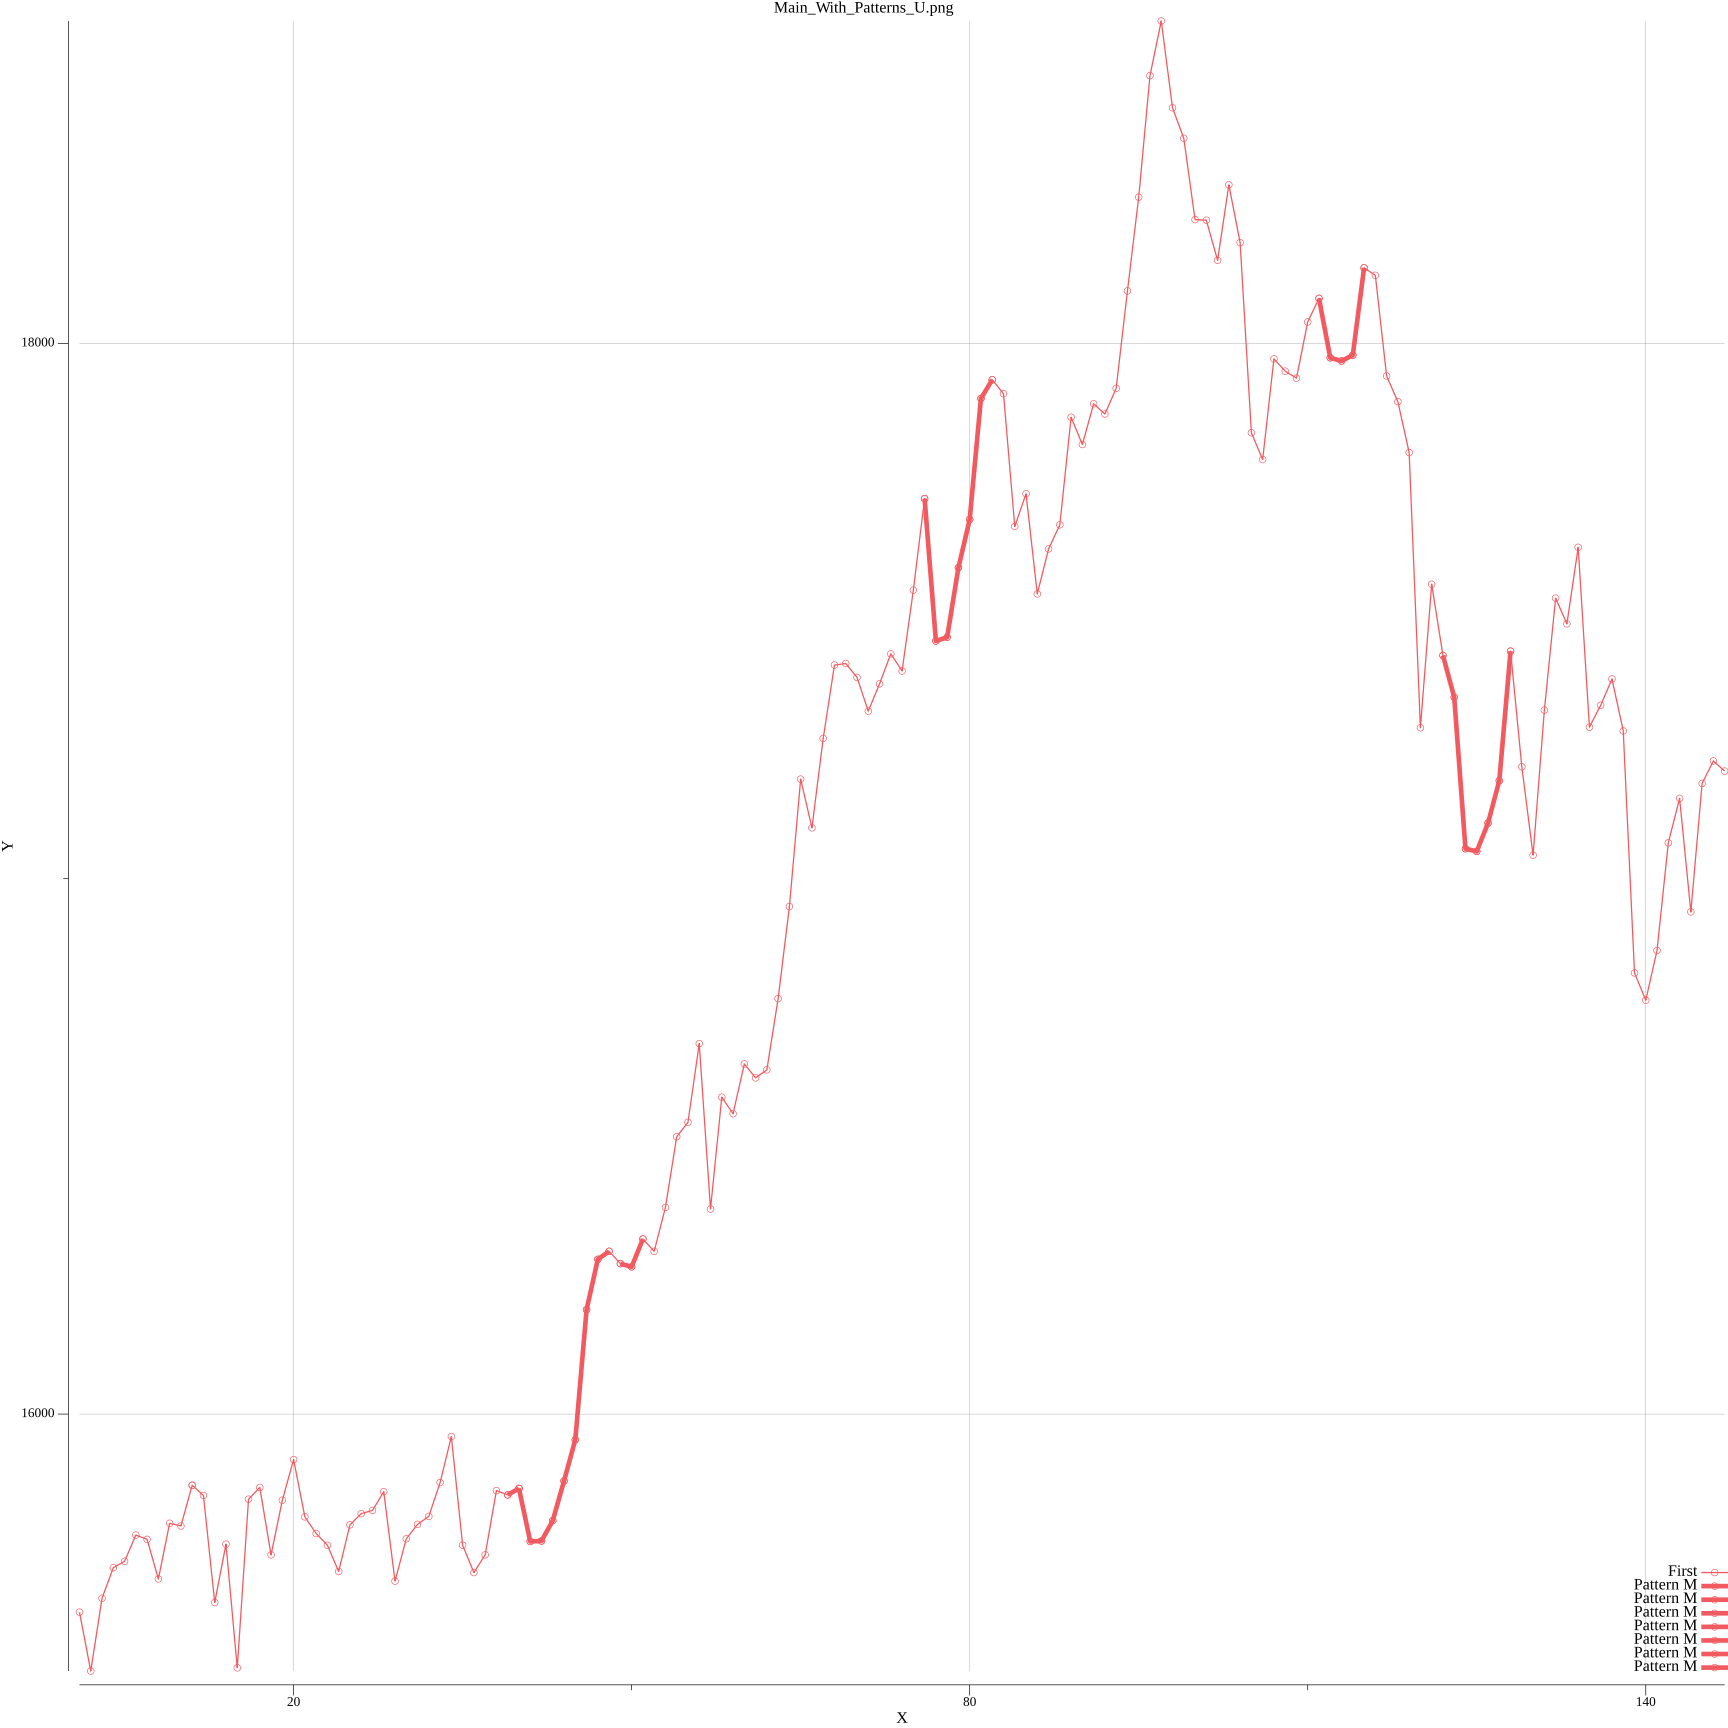
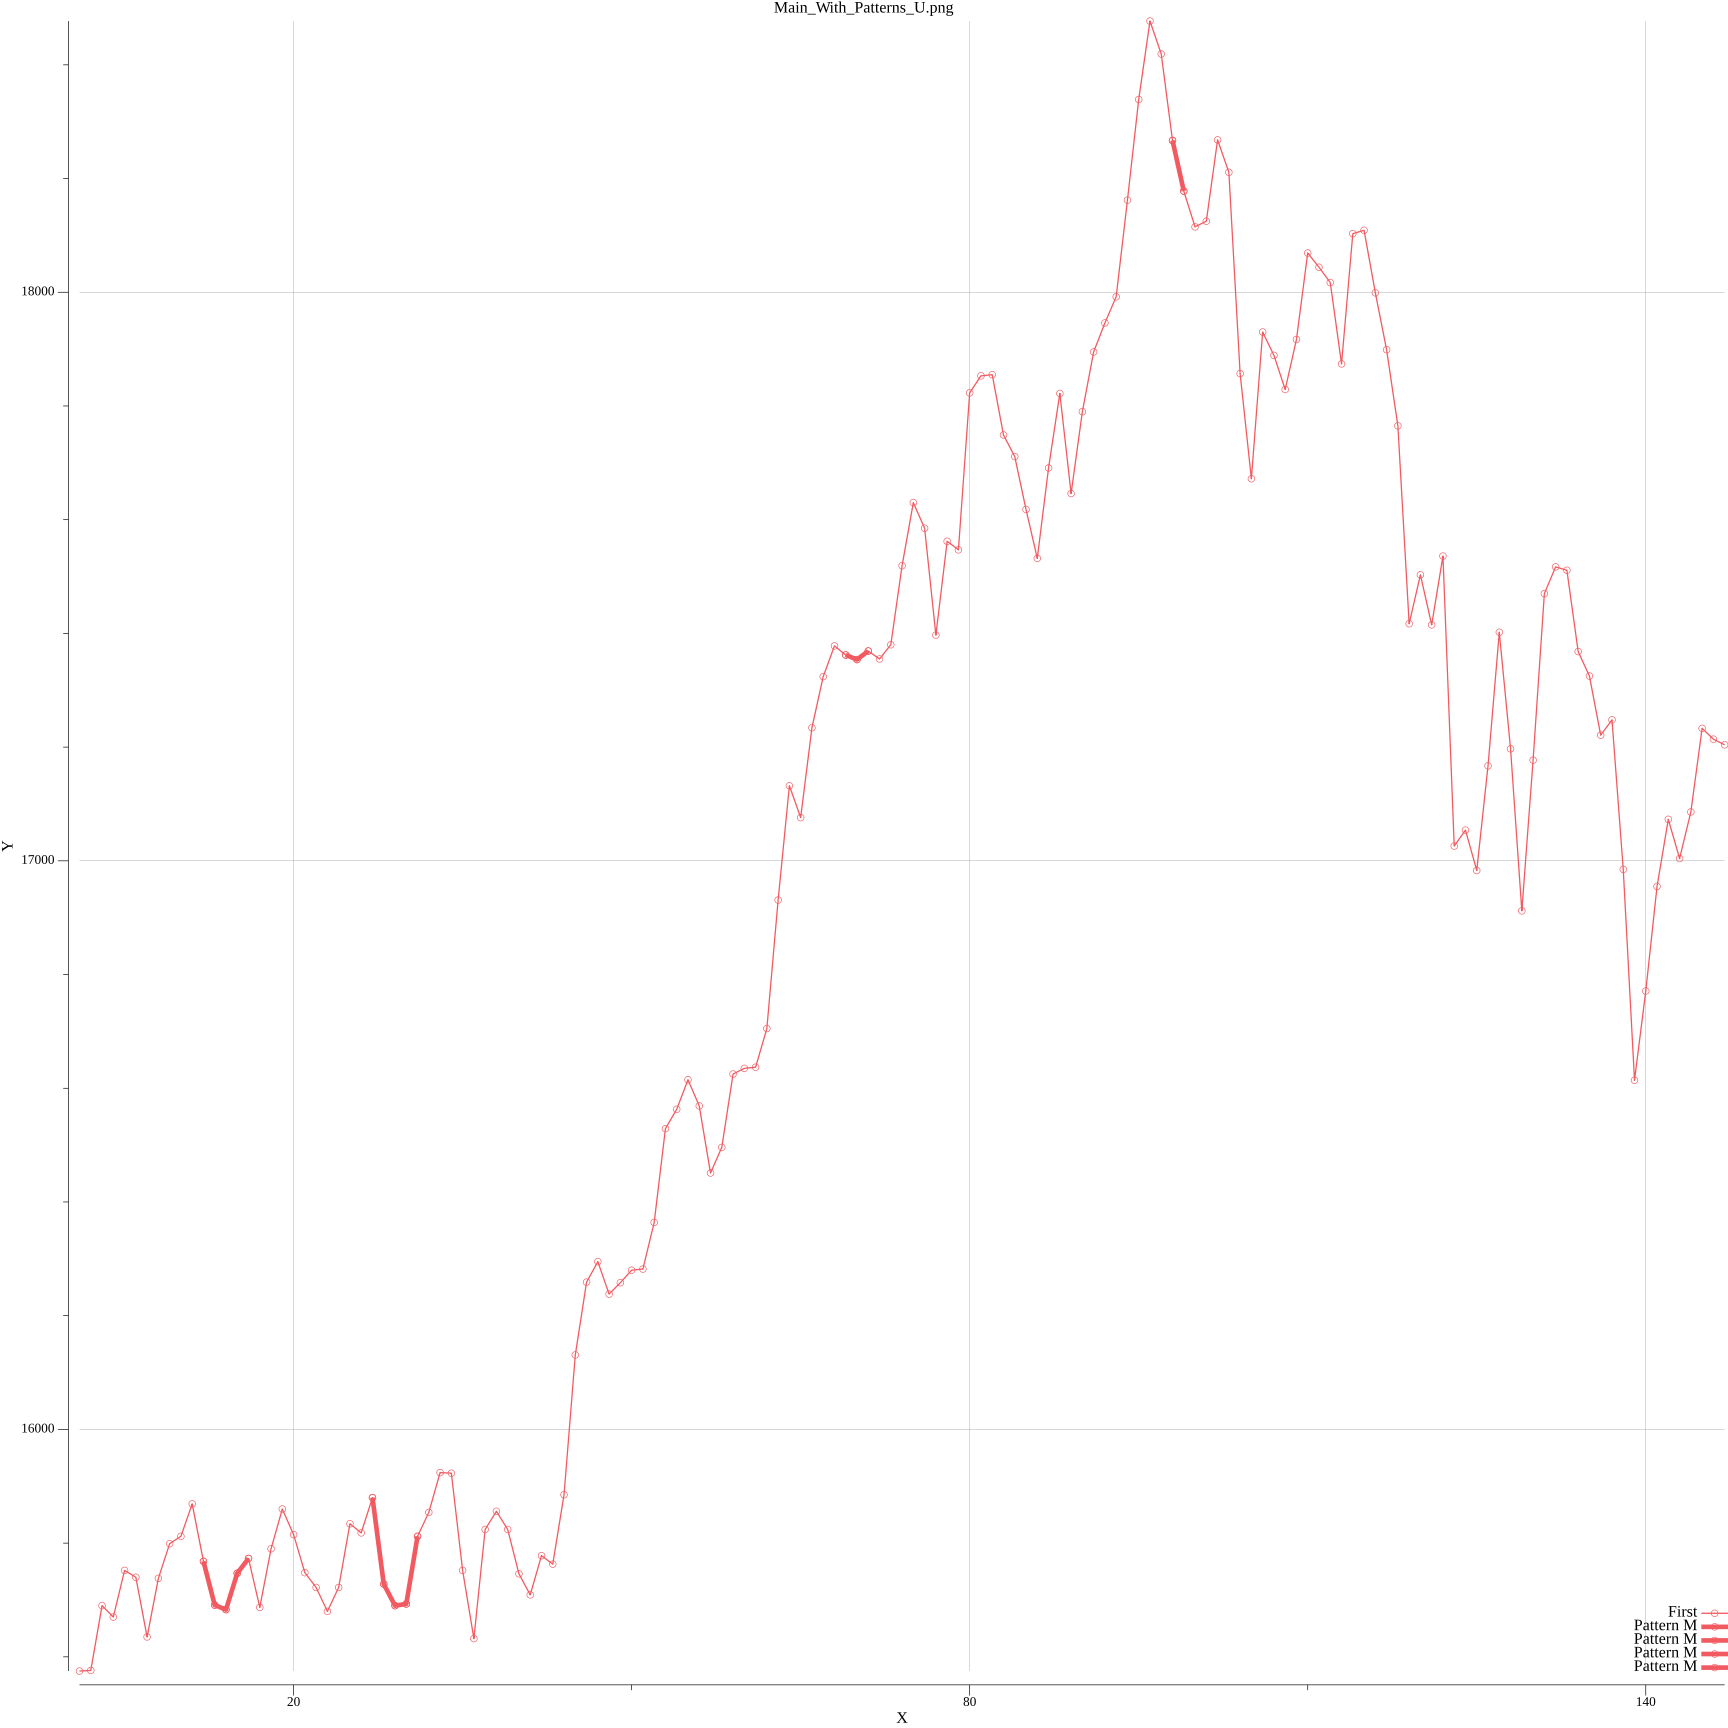
u emered in wo perfect!!

diff --git a/Inverted_semi_circle/main.go b/Inverted_semi_circle/main.go
@@ -51,7 +51,7 @@ func (l *Letter_inverted_semicircle) PatternU() ([]int, []int, int, bool) {
 	for i := range All_trends_string {
 		if All_trends_string[i] == "Downward" && i != len(All_trends_string)-1 {
 			if All_trends_string[i+1] == "Upward" && i+1 != len(All_trends_string)-1 { //Task:=>check here for first and last point to be in the align manner.
-				var a1 []int
+				var a1 []int //end point
 				var x int
 
 				for i1 := 0; i1 < 30; i1++ {
@@ -62,7 +62,7 @@ func (l *Letter_inverted_semicircle) PatternU() ([]int, []int, int, bool) {
 					x = l.Date_struct[All_trends_index_values[i+2]].Value - i2
 					a1 = append(a1, x)
 				}
-				var a2 []int
+				var a2 []int //start point
 				var x1 int
 
 				for i1 := 0; i1 < 30; i1++ {
@@ -73,31 +73,30 @@ func (l *Letter_inverted_semicircle) PatternU() ([]int, []int, int, bool) {
 					x1 = l.Date_struct[All_trends_index_values[i]+1].Value - i2
 					a2 = append(a2, x1)
 				}
-
-				if Is_Valid11(l.Date_struct[All_trends_index_values[i]].Value, a1) {
+				// if Is_Valid11(l.Date_struct[All_trends_index_values[i]].Value, a1) {
+				// 	start = append(start, All_trends_index_values[i])
+				// 	end = append(end, All_trends_index_values[i])
+				// 	count++
+				// 	bol = true //do tuing here
+				// } else
+				if Is_Valid11(l.Date_struct[All_trends_index_values[i]+1].Value, a1) {
 					start = append(start, All_trends_index_values[i]+1)
-					end = append(end, All_trends_index_values[i+2]+1)
-					count++
-					bol = true
-
-				} else if Is_Valid11(l.Date_struct[All_trends_index_values[i]+1].Value, a1) {
-					start = append(start, All_trends_index_values[i]+1)
-					end = append(end, All_trends_index_values[i+2]+1)
+					end = append(end, All_trends_index_values[i+2]+1) //last U
 					count++
 					bol = true
 				} else if Is_Valid11(l.Date_struct[All_trends_index_values[i]+2].Value, a1) {
 					start = append(start, All_trends_index_values[i]+2)
-					end = append(end, All_trends_index_values[i+2]+1)
+					end = append(end, All_trends_index_values[i+1])
+					count++
+					bol = true
+				} else if Is_Valid11(l.Date_struct[All_trends_index_values[i]].Value, a2) {
+					start = append(start, All_trends_index_values[i])
+					end = append(end, All_trends_index_values[i]+1)
 					count++
 					bol = true
 				} else if Is_Valid11(l.Date_struct[All_trends_index_values[i]+1].Value, a2) {
 					start = append(start, All_trends_index_values[i])
-					end = append(end, All_trends_index_values[i+2]+1)
-					count++
-					bol = true
-				} else if Is_Valid11(l.Date_struct[All_trends_index_values[i]+2].Value, a2) {
-					start = append(start, All_trends_index_values[i]+1)
-					end = append(end, All_trends_index_values[i+2]+1)
+					end = append(end, All_trends_index_values[i]+5) //some connection
 					count++
 					bol = true
 				}
@@ -271,11 +270,11 @@ func troughs(pts []pattern_up.Date) (a []int) {
 				x = pts[i].Value - i2
 				a1 = append(a1, x)
 			}
-			if Is_Valid1(pts[i-1].Value, a1) { //pts[i-1].Value == pts[i].Value || pts[i+1].Value == pts[i].Value
+			if Is_Valid1(pts[i-1].Value, a1) && pts[i-1].Value < pts[i-2].Value { //pts[i-1].Value == pts[i].Value || pts[i+1].Value == pts[i].Value
 				b = append(b, i)
 				continue
 			}
-			if Is_Valid1(pts[i+1].Value, a1) { //pts[i-1].Value == pts[i].Value || pts[i+1].Value == pts[i].Value
+			if Is_Valid1(pts[i+1].Value, a1) && pts[i+1].Value < pts[i+2].Value { //pts[i-1].Value == pts[i].Value || pts[i+1].Value == pts[i].Value
 				b = append(b, i)
 				continue
 
@@ -289,13 +288,14 @@ func troughs(pts []pattern_up.Date) (a []int) {
 
 }
 func main() {
-	Date := Generic.Genericcsv("/home/tatva.j@ah.zymrinc.com/Desktop/go-graph/Generic/data.csv")
+	Date := Generic.Genericcsv("/home/tatva.j@ah.zymrinc.com/Desktop/go-graph/Generic/data1.csv")
 	Plot_Original(Date, "Main_Without_Patterns.png")
 	P := &Letter_inverted_semicircle{Date_struct: Date}
 	start, end, count, bol := Find(P)
 	fmt.Println(start, end, count, bol)
 	if bol {
 		Plot_Pattern(Date, count, start, end, "Main_With_Patterns_U.png")
+		fmt.Println(Date[39], Date[48])
 	} else {
 		fmt.Println("No Pattern Found")
 	}
